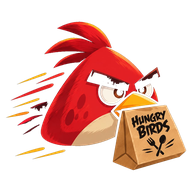
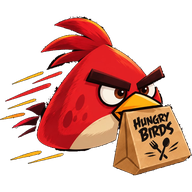
Give the bird its eyebrows back
The icons were drawn from design/logo-master.png, and that master had been cut
out of the source artwork by keying on the backdrop colour. The backdrop is a
neutral #15130F; the bird's eyebrows are painted a near-black rgb(16,0,0). The
key could not tell them apart, so it deleted the brows along with the backdrop.

Nothing looked wrong while the only place anyone saw the logo was against that
same dark backdrop - the hole and the eyebrow were the same colour. On a light
surface, and inside a launcher's adaptive mask, the bird came out with two
transparent slots where its expression should be. At 48px it just read as a
blank-faced bird, which is the opposite of the one thing this logo is doing.

design/make_master.py rebuilds the master from design/logo-source.jpg and makes
the cut differently: near-black is background only where it is reachable from
the image border, so near-black enclosed by artwork - the brows, the bag's
lettering, the bird's inner lines - is kept as paint. The tolerance comes down
from 42 to 12 as well, because at 42 the backdrop and the brows overlap and the
flood walks into the brows through the head's silhouette where the two touch.
Both numbers are load-bearing and the script says so.

Then make_icons.py as usual: 27 files across both Android apps, apps/web/public
and the Play Store icon. Checked at 48, 96 and 192 - the brows are solid.

The merchant iOS AppIcon.appiconset and Flutter-web icons/ are untouched here.
[…]

Changed region(s): [[0.0, 0.0625, 1.0, 0.9375], [0.4062, 0.5, 0.4688, 0.5312], [0.4375, 0.5625, 0.4688, 0.5938]]

diff --git a/design/make_master.py b/design/make_master.py
@@ -1,0 +1,98 @@
+"""Rebuild design/logo-master.png from design/logo-source.jpg.
+
+    pip install pillow
+    python3 design/make_master.py      # then: python3 design/make_icons.py
+
+The source is the supplied artwork on its own near-black backdrop (#15130F). The
+master is that artwork with the backdrop removed, cropped and squared, and every
+app icon is derived from it by make_icons.py.
+
+Why this exists rather than a one-off edit: the first master was cut by keying on
+the backdrop *colour*, and the bird's eyebrows are painted a near-black maroon
+that the key could not tell apart from the backdrop. So the strip deleted them
+too. On the dark backdrop nobody noticed - the hole showed the same colour the
+eyebrow had been - but the icons are drawn on light surfaces and launcher masks,
+where the bird came out with hollow brows and no angry expression at all. At 48px
+it simply read as a blank-faced bird.
+
+Two things fix it, and both matter:
+
+  * The backdrop is identified by *reachability*, not colour. Only near-black
+    pixels connected to the image border are background; near-black enclosed by
+    artwork is paint. That alone keeps the bag's ink and the bird's inner lines.
+
+  * The tolerance is tight (12, not 42). The backdrop is a neutral #15130F and
+    the brows are a red-tinted rgb(16,0,0); a loose tolerance merges them, and
+    then the flood reaches the brows through the head's silhouette edge where the
+    two genuinely touch. 12 separates them while still clearing the backdrop.
+
+Both numbers are load-bearing. Widening either brings the hollow brows back.
+"""
+
+import os
+
+from PIL import Image, ImageDraw, ImageFilter
+
+ROOT = os.path.dirname(os.path.dirname(os.path.abspath(__file__)))
+SOURCE = os.path.join(ROOT, "design", "logo-source.jpg")
+MASTER = os.path.join(ROOT, "design", "logo-master.png")
+
+BACKDROP = (21, 19, 15)  # #15130F
+# See the module docstring: 12 separates the backdrop from the brows, 42 does not.
+TOLERANCE = 12
+
+
+def _backdrop_alpha(src: Image.Image) -> Image.Image:
+    """Alpha that is 0 on the backdrop and 255 on the artwork."""
+    w, h = src.size
+    px = src.load()
+
+    near = Image.new("L", (w, h), 0)
+    np = near.load()
+    for y in range(h):
+        for x in range(w):
+            r, g, b = px[x, y]
+            if (
+                abs(r - BACKDROP[0]) <= TOLERANCE
+                and abs(g - BACKDROP[1]) <= TOLERANCE
+                and abs(b - BACKDROP[2]) <= TOLERANCE
+            ):
+                np[x, y] = 255
+
+    # Only the near-black that reaches a border is background. Everything else -
+    # the eyebrows, the bag's lettering, the bird's inner lines - is paint.
+    flooded = near.copy()
+    for seed in ((0, 0), (w - 1, 0), (0, h - 1), (w - 1, h - 1)):
+        if flooded.getpixel(seed) == 255:
+            ImageDraw.floodfill(flooded, seed, 128)
+
+    alpha = flooded.point(lambda v: 0 if v == 128 else 255)
+    # JPEG ringing leaves specks in the backdrop. A 3px open clears them; the
+    # artwork is everywhere far thicker than that, so nothing real is lost.
+    alpha = alpha.filter(ImageFilter.MinFilter(3)).filter(ImageFilter.MaxFilter(3))
+    # Soften the cut, or the silhouette is a staircase once it is scaled to 48px.
+    return alpha.filter(ImageFilter.GaussianBlur(0.6))
+
+
+def main() -> None:
+    src = Image.open(SOURCE).convert("RGB")
+    alpha = _backdrop_alpha(src)
+
+    art = src.convert("RGBA")
+    art.putalpha(alpha)
+
+    # Crop to the artwork. Without this the bird occupies a little over half the
+    # canvas and the icon is a scattering of specks at 48px.
+    bbox = alpha.point(lambda v: 255 if v > 8 else 0).getbbox()
+    art = art.crop(bbox)
+
+    side = max(art.size)
+    square = Image.new("RGBA", (side, side), (0, 0, 0, 0))
+    square.paste(art, ((side - art.width) // 2, (side - art.height) // 2))
+    square.save(MASTER, optimize=True)
+    print(f"  design/logo-master.png: {side}x{side} from {bbox}")
+    print("  now run: python3 design/make_icons.py")
+
+
+if __name__ == "__main__":
+    main()
